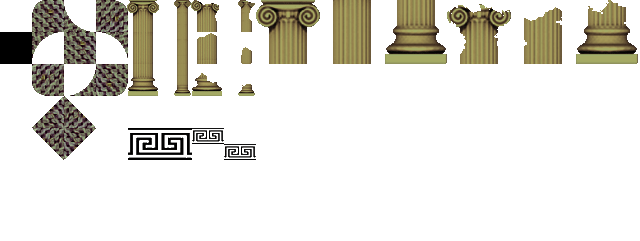
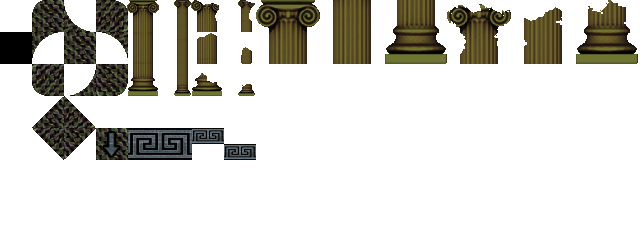
Add background and small style changes

Changed region(s): [[0.0312, 0.0, 0.4062, 0.668], [0.375, 0.0, 1.0, 0.2905]]

diff --git a/boilerplate-master/js/resources.js b/boilerplate-master/js/resources.js
@@ -14,7 +14,7 @@ game.resources = [
     // !NOTE! need to change for our game
     {name: "area01_bkg0", type: "image", src: "data/img/area01_bkg0.png"},
     {name: "area01_bkg1", type: "image", src: "data/img/area01_bkg1.png"},
-    
+    {name: "background", type: "image", src: "data/img/background.png"},
     // the spinning coin spritesheet
     // !NOTE! not needed for now
     {name: "spinning_coin_gold", type: "image", src: "data/img/sprite/spinning_coin_gold.png"},
